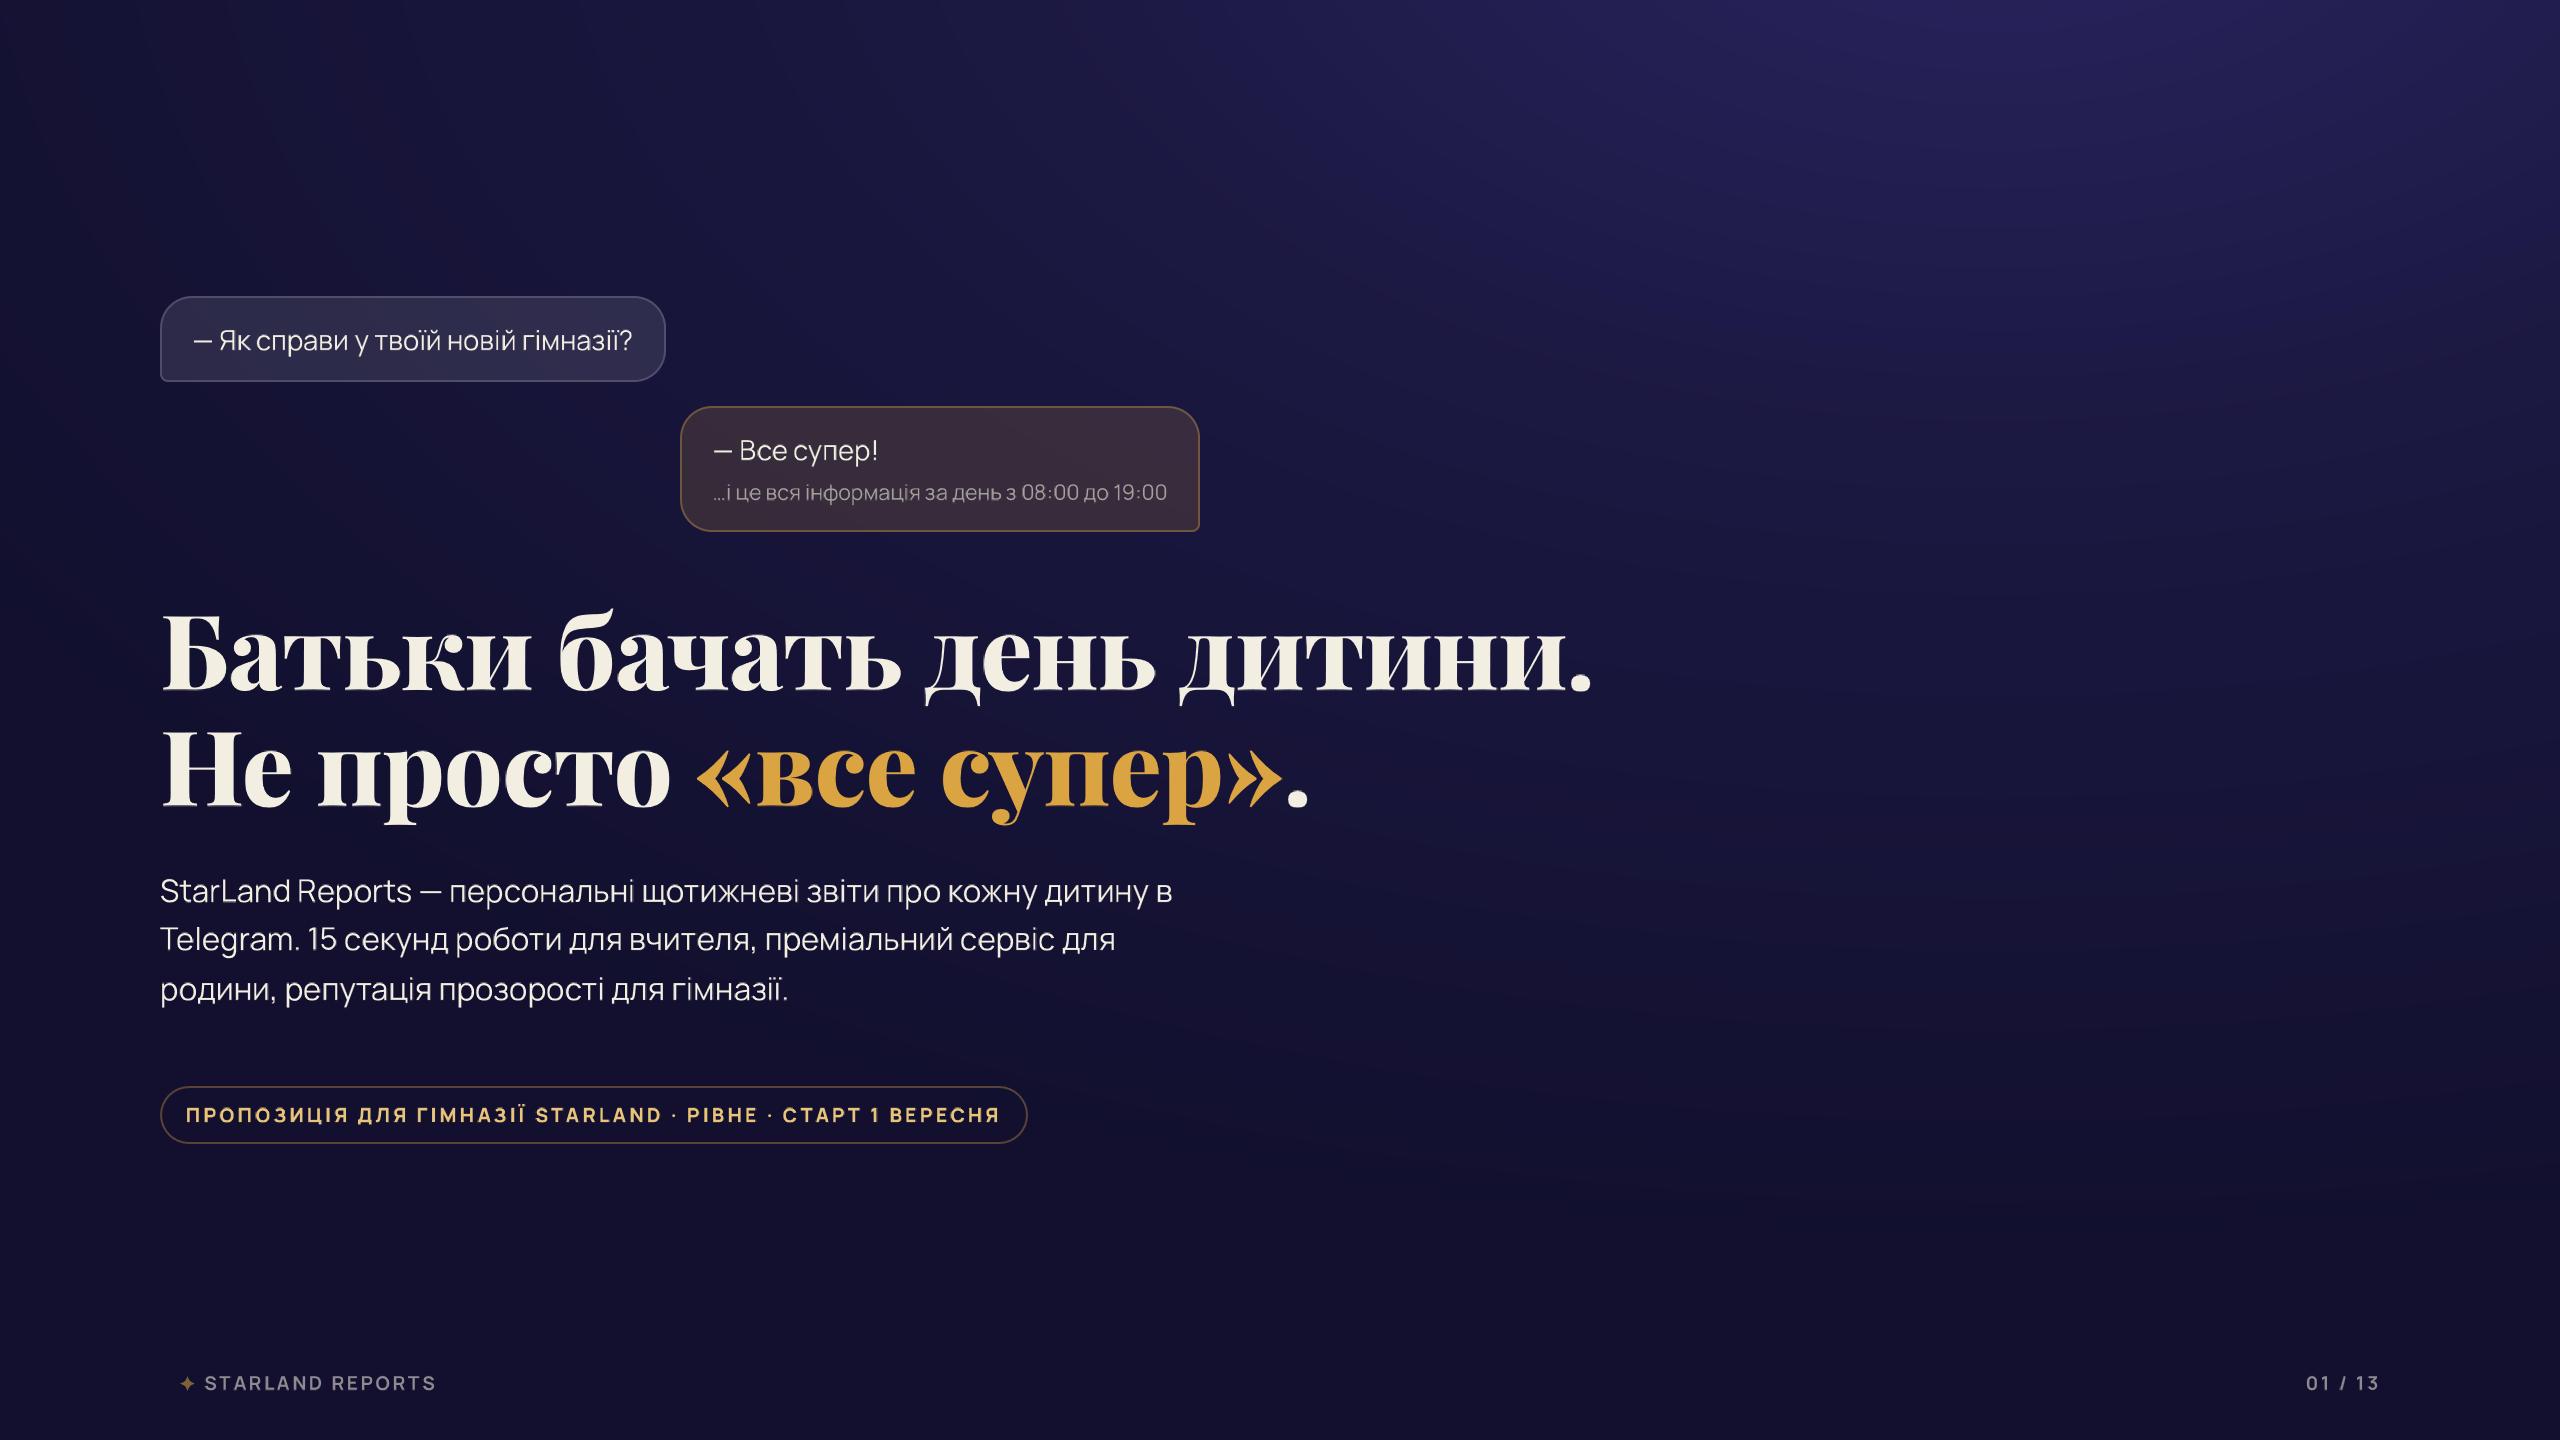
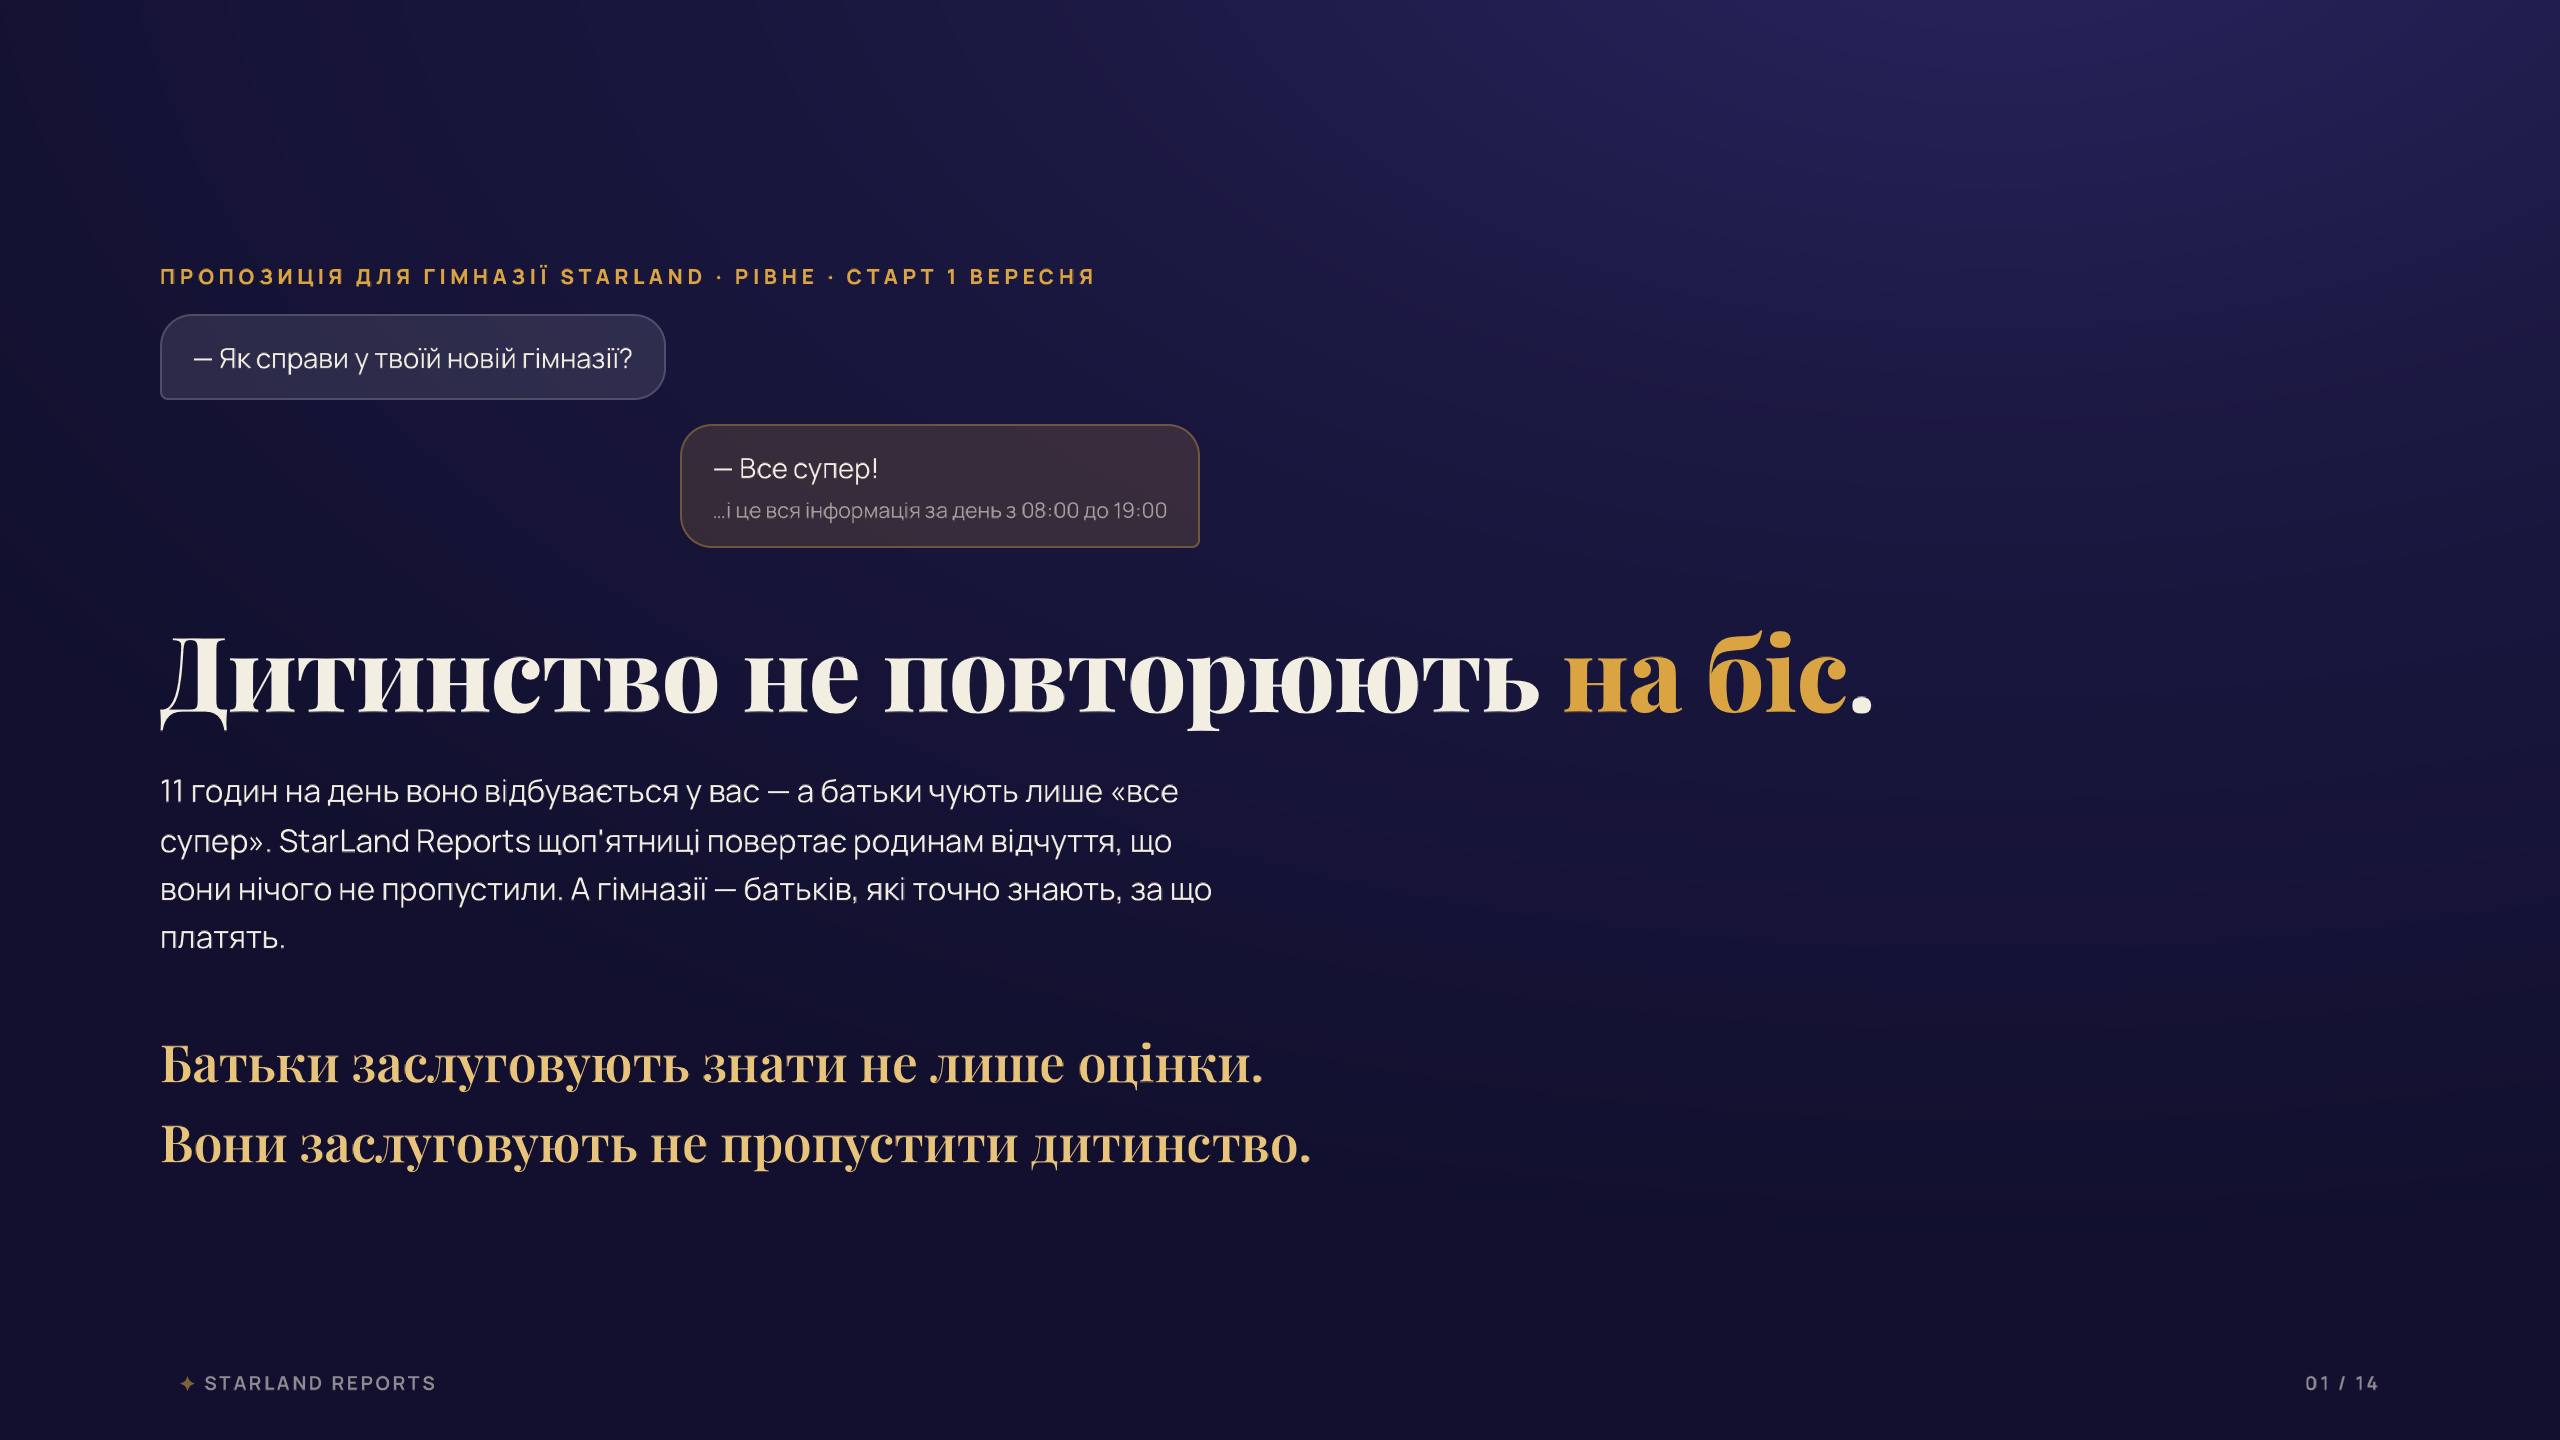
Новий емоційний офер на першому слайді, слайд-знайомство з продуктом (14 слайдів)

diff --git a/index.html b/index.html
@@ -164,6 +164,12 @@ h2{font-size:clamp(24px,3.2vw,46px);margin-bottom:.5em}
 
 .badge{display:inline-block;font-size:.68em;font-weight:800;letter-spacing:.16em;text-transform:uppercase;border:1px solid var(--line-gold);color:var(--gold-soft);border-radius:30px;padding:.55em 1.2em;margin-bottom:2.2em}
 
+/* міні-статистика на слайді продукту */
+.statrow{display:flex;gap:clamp(12px,1.8vw,26px);margin-top:2.6em;flex-wrap:wrap}
+.stat{border:1px solid rgba(255,255,255,.14);border-radius:16px;padding:1.1em 1.5em;background:rgba(255,255,255,.05);min-width:200px}
+.stat b{display:block;font-family:var(--disp);font-size:1.45em;font-weight:800;color:var(--gold-soft);margin-bottom:.2em}
+.stat span{font-size:.74em;opacity:.72}
+
 .bigline{font-family:var(--disp);font-size:clamp(18px,2vw,28px);margin-top:1.2em;color:var(--gold-soft)}
 .light .bigline{color:#8a6420}
 
@@ -211,16 +217,31 @@ h2{font-size:clamp(24px,3.2vw,46px);margin-bottom:.5em}
 }
 </style>
 
-<!-- 1 · ОБКЛАДИНКА -->
-<section class="slide dark" id="s1">
+<!-- 1 · ОФЕР -->
+<section class="slide dark" id="s0">
   <div class="stars"></div>
-  <div class="chat rv">
+  <p class="kicker rv">Пропозиція для гімназії StarLand · Рівне · старт 1 вересня</p>
+  <div class="chat rv" style="margin-bottom:2.2em">
     <div class="bub q">— Як справи у твоїй новій гімназії?</div>
     <div class="bub a">— Все супер!<small>…і це вся інформація за день з 08:00 до 19:00</small></div>
   </div>
-  <h1 class="rv">Батьки бачать день дитини.<br>Не просто <span class="gold">«все супер»</span>.</h1>
-  <p class="lead rv" style="margin-top:1.4em">StarLand Reports — персональні щотижневі звіти про кожну дитину в Telegram. 15 секунд роботи для вчителя, преміальний сервіс для родини, репутація прозорості для гімназії.</p>
-  <div class="rv" style="margin-top:2.6em"><span class="badge" style="margin:0">Пропозиція для гімназії StarLand · Рівне · старт 1 вересня</span></div>
+  <h1 class="rv">Дитинство не повторюють <span class="gold">на біс</span>.</h1>
+  <p class="lead rv" style="margin-top:1.2em">11 годин на день воно відбувається у вас — а батьки чують лише «все супер». StarLand Reports щоп'ятниці повертає родинам відчуття, що вони нічого не пропустили. А гімназії — батьків, які точно знають, за що платять.</p>
+  <p class="bigline rv">Батьки заслуговують знати не лише оцінки.<br>Вони заслуговують не пропустити дитинство.</p>
+  <div class="foot"><span><span class="star">✦</span> STARLAND REPORTS</span><span class="pg"></span></div>
+</section>
+
+<!-- 2 · ЗНАЙОМСТВО З ПРОДУКТОМ -->
+<section class="slide dark" id="s1">
+  <div class="stars"></div>
+  <p class="kicker rv">Рішення</p>
+  <h1 class="rv">Знайомтесь: <span class="gold">StarLand Reports</span></h1>
+  <p class="lead rv" style="margin-top:1.2em">Персональні щотижневі звіти про кожну дитину в Telegram — написані AI турботливою людською мовою і підтверджені педагогом перед відправкою.</p>
+  <div class="statrow rv">
+    <div class="stat"><b>20 секунд</b><span>на дитину — вся робота вчителя</span></div>
+    <div class="stat"><b>П'ятниця, 17:00</b><span>особистий звіт кожній родині</span></div>
+    <div class="stat"><b>Нуль додатків</b><span>звичайний Telegram, кнопка «Старт»</span></div>
+  </div>
   <div class="foot"><span><span class="star">✦</span> STARLAND REPORTS</span><span class="pg"></span></div>
 </section>
 
@@ -473,7 +494,8 @@ h2{font-size:clamp(24px,3.2vw,46px);margin-bottom:.5em}
     <div class="q" style="background:rgba(255,255,255,.06);border-color:rgba(255,255,255,.12)"><h3>Дані дітей у безпеці?</h3><p>Закритий контур: доступ має лише школа, дані не передаються третім сторонам і не використовуються для навчання публічних моделей.</p></div>
   </div>
   <div class="rv" style="text-align:center;margin-top:1em">
-    <a class="cta" href="#">✦ Зарезервувати запуск на серпень</a>
+    <p class="bigline" style="margin:0 0 .9em;font-size:clamp(16px,1.6vw,24px)">Батьки ваших учнів заслуговують знати не лише оцінки — і не пропустити дитинство.</p>
+    <a class="cta" href="#" style="margin-top:.4em">✦ Зарезервувати запуск на серпень</a>
     <p class="note">Ціна фіксується до 1 серпня. Перша п'ятниця вересня — перший вау-звіт для ваших родин.</p>
   </div>
   <div class="foot"><span><span class="star">✦</span> STARLAND REPORTS</span><span class="pg"></span></div>